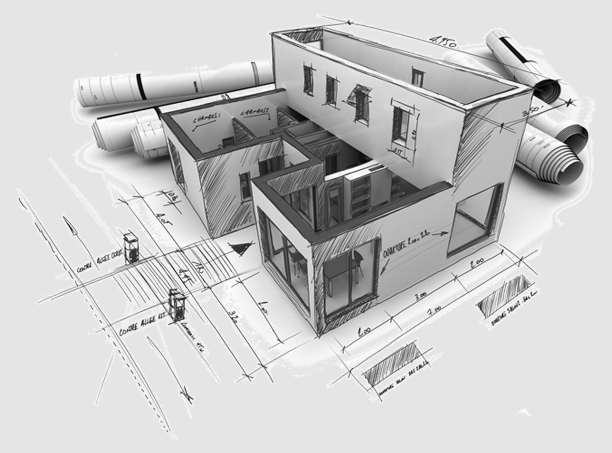
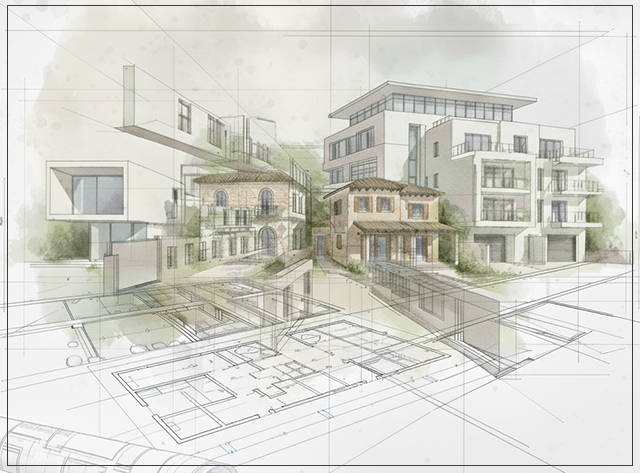
changes in projects page
2025.10.08

diff --git a/archprojects.html b/archprojects.html
@@ -279,8 +279,8 @@
             <!-- Project 10 -->
             <div class="portfolio-item">
                 <a href="./arch-pvtvilla3.html" class="project-link">
-                    <img src="./images/pvtvilla3/1.jpg" alt="Art Gallery - Riyadh" class="portfolio-image">
-                    <h3 class="portfolio-title">Art Gallery - Riyadh</h3>
+                    <img src="./images/pvtvilla3/1.jpg" alt="Private Villa - Riyadh" class="portfolio-image">
+                    <h3 class="portfolio-title">Private Villa - Riyadh</h3>
                 </a>
             </div>
             

diff --git a/projects.html b/projects.html
@@ -192,7 +192,7 @@
   </style>
 </head>
 
-
+<br>
 <body>
   <!-- Main Content -->
   <main>
